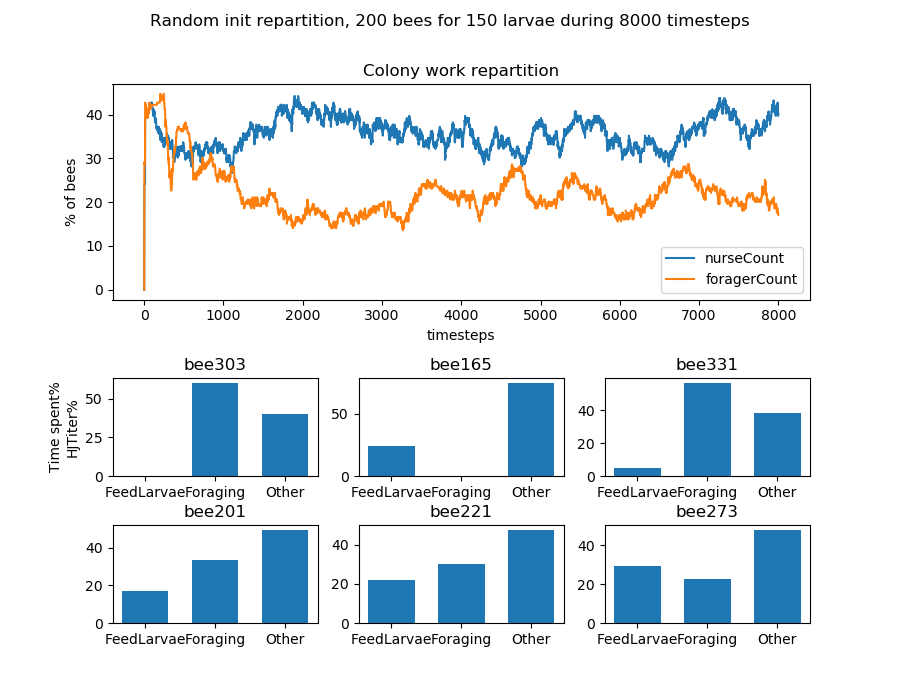
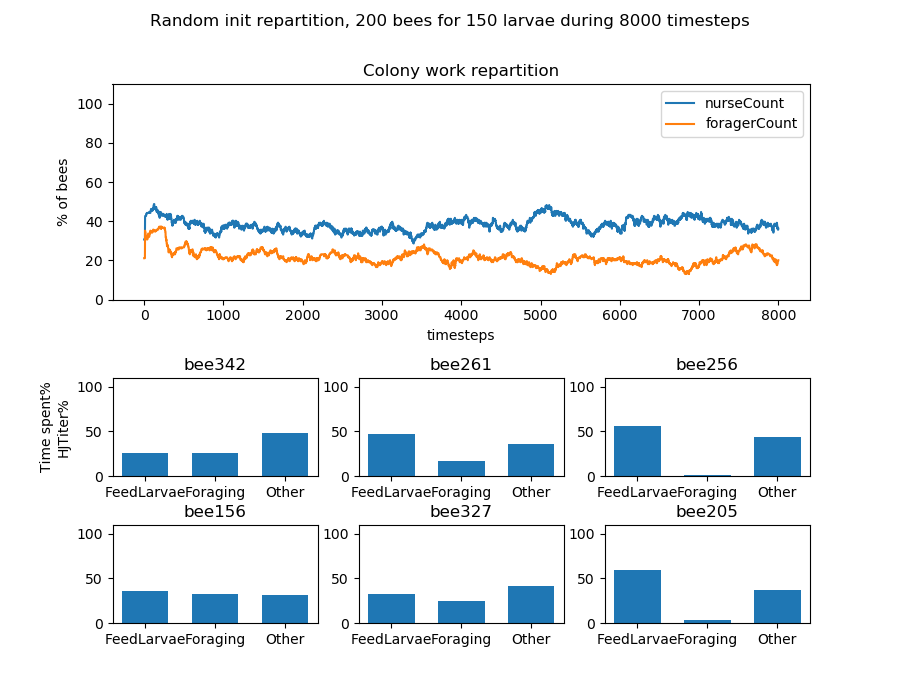
Graph fixes and enhancement

diff --git a/BeeKeeper/pythonAnalytics/BeekeeperAnalytics.py b/BeeKeeper/pythonAnalytics/BeekeeperAnalytics.py
@@ -16,8 +16,10 @@ data = [];
 jobDataPerBee = {};
 hjData = [];
 hjDataPerBee = {};
-
-prevIndex = 0;
+larvaCounts = [];
+initLarvae = -1;
+larvae = 0;
+prevIndex = -1;
 foragerCount = 0;
 nurseCount = 0;
 otherJobCount = 0;
@@ -50,19 +52,22 @@ with open('../tasks.txt') as csv_file:
 			#print(f'\tturn {row[0]}, Bee ID {row[1]} was doing {row[2]} and had {row[3]} HJTiter.')
 			index = int(row[0]);
 			if(prevIndex != index):	
-				total = (foragerCount + nurseCount + otherJobCount)/100;
-				if total == 0: total = 1;
-				data.append([otherJobCount/total, nurseCount/total, foragerCount/total]);
-				hjData.append(hjAmount/total);
-				foragerCount = 0;
-				nurseCount = 0;
-				otherJobCount = 0;
-				hjAmount = 0;
+				if(prevIndex != -1):					
+					total = (foragerCount + nurseCount + otherJobCount)/100;
+					if initLarvae == -1: initLarvae = larvae;
+					data.append([otherJobCount/total, nurseCount/total, foragerCount/total]);
+					hjData.append(hjAmount/total);
+					larvaCounts.append(larvae*100/initLarvae);
+					
+					foragerCount = 0;
+					nurseCount = 0;
+					otherJobCount = 0;
+					hjAmount = 0;
+					larvae = 0;
 				prevIndex = index;
 				
 			beeID = int(row[1]);
 			
-			hjAmount += float(row[3]);
 			
 			if(not beeID in hjDataPerBee):
 				hjDataPerBee[beeID] = [];
@@ -70,19 +75,22 @@ with open('../tasks.txt') as csv_file:
 			hjDataPerBee[beeID].append(int(float(row[3])*100));
 			
 			if(row[2] != "LarvaTask"):
+				hjAmount += float(row[3]);
 				if(not beeID in jobDataPerBee):
 					jobDataPerBee[beeID] = getDict();
 					
 				if(row[2] in jobDataPerBee[beeID]):
-					jobDataPerBee[beeID][row[2]] += 1/80; #8000 timesteps, into %of timesteps
+					jobDataPerBee[beeID][row[2]] += 1;
 				else:
-					jobDataPerBee[beeID]['Other'] += 1/80;
+					jobDataPerBee[beeID]['Other'] += 1;
+			else:
+				larvae += 1;
 			
 			if row[2] == "FeedLarvae":
 				nurseCount += 1;
 			elif row[2] == "Foraging" :
 				foragerCount += 1;
-			else:
+			elif row[2] != "LarvaTask":
 				otherJobCount +=1;
 
 			line_count += 1
@@ -90,14 +98,25 @@ with open('../tasks.txt') as csv_file:
 			#print(row[0])
 	print()
 	print(f'Processed {line_count} lines.')
+	
+total = (foragerCount + nurseCount + otherJobCount)/100;
+data.append([otherJobCount/total, nurseCount/total, foragerCount/total]);
+hjData.append(hjAmount/total);
+larvaCounts.append(larvae*100/initLarvae);
+
+for beeID in jobDataPerBee.keys():
+	for task in jobDataPerBee[beeID].keys():
+		jobDataPerBee[beeID][task] /= len(data)/100;
 
 
-initState = "Random";
+initState = "NewBorn";
 initBees = "200";
-initLarvae = "50";
+initLarvae = str(initLarvae);
 simuLength = str(len(data));
 smallTitle = initState + "_" + initBees + "_" + initLarvae + "_" + simuLength;
 hugeTitle = initState + " init repartition, " + initBees + " bees for " + initLarvae + " larvae during " + simuLength + " timesteps";
+
+ylims = [0,110];
 
 plt.figure(figsize=(9,7));
 #subplot(nrows, ncols, index)
@@ -110,6 +129,7 @@ plt.plot(range(len(data)), column(data,2), label='foragerCount')
 plt.legend()
 plt.xlabel("timesteps")
 plt.ylabel("% of bees")
+plt.ylim(ylims);
 
 sampleSize = 6
 randomKeys = []
@@ -131,8 +151,8 @@ for i in range(sampleSize):
 	 
 	# Create names on the x-axis
 	plt.xticks([8000/4, 8000/2, 3*8000/4], keys)
+	plt.ylim(ylims);
 	
-	#a = plt.twinx()
 	#plt.plot(range(len(hjData)), hjDataPerBee[randomKeys[i]], c='orange')
 
 
@@ -142,16 +162,20 @@ plt.savefig(smallTitle + "Tasks.png");
 plt.figure(figsize=(9,7));
 plt.suptitle(hugeTitle);
 plt.subplots_adjust(hspace=0.5)
-plt.subplot(2,1,1, title='Colony HJTiter');
-plt.plot(range(len(hjData)), hjData);
+plt.subplot(2,1,1, title='Colony');
+plt.plot(range(len(hjData)), hjData, label='bees mean HJTiters');
+plt.plot(range(len(larvaCounts)), larvaCounts, label='Larvae Count (% of init)');
+plt.legend()
 plt.xlabel("timesteps")
-plt.ylabel("mean HJ Titer %")
+plt.ylabel("%")
+plt.ylim(ylims);
 
 for i in range(sampleSize):
 	plt.subplot(4,3,i+7, title='bee' + str(randomKeys[i]))
 	if(i == 0):
 		plt.ylabel("HJTiter %");
 	plt.plot(range(len(hjData)), hjDataPerBee[randomKeys[i]])
+	plt.ylim(ylims);
 
 
 plt.savefig(smallTitle + "HJ.png");

diff --git a/BeeKeeper/src/com/beekeeper/controller/MainController.java b/BeeKeeper/src/com/beekeeper/controller/MainController.java
@@ -185,7 +185,7 @@ public class MainController
 			for(Agent b : copy)
 			{
 				b.live();
-				if(b.getBeeType() == AgentType.ADULT_BEE)
+				if(b.getBeeType() == AgentType.ADULT_BEE || b.getBeeType() == AgentType.BROOD_BEE)
 				{
 					WorkingAgent w = (WorkingAgent) b;
 					logTurn(turnIndex, b.getID(), w.getTaskName(), w.getPhysio());

diff --git a/BeeKeeper/src/com/beekeeper/parameters/ModelParameters.java b/BeeKeeper/src/com/beekeeper/parameters/ModelParameters.java
@@ -53,10 +53,10 @@ public class ModelParameters
 	
 	
 	public static final int NUMBER_BEES = 199;
-	public static final int NUMBER_LARVAE = 50;
+	public static final int NUMBER_LARVAE = 150;
 	public static final int SIMU_LENGTH = 8000;
 
 	public static double getStartingBeeHJTiter() {
-		return Math.random();
+		return 0.0;
 	}
 }
